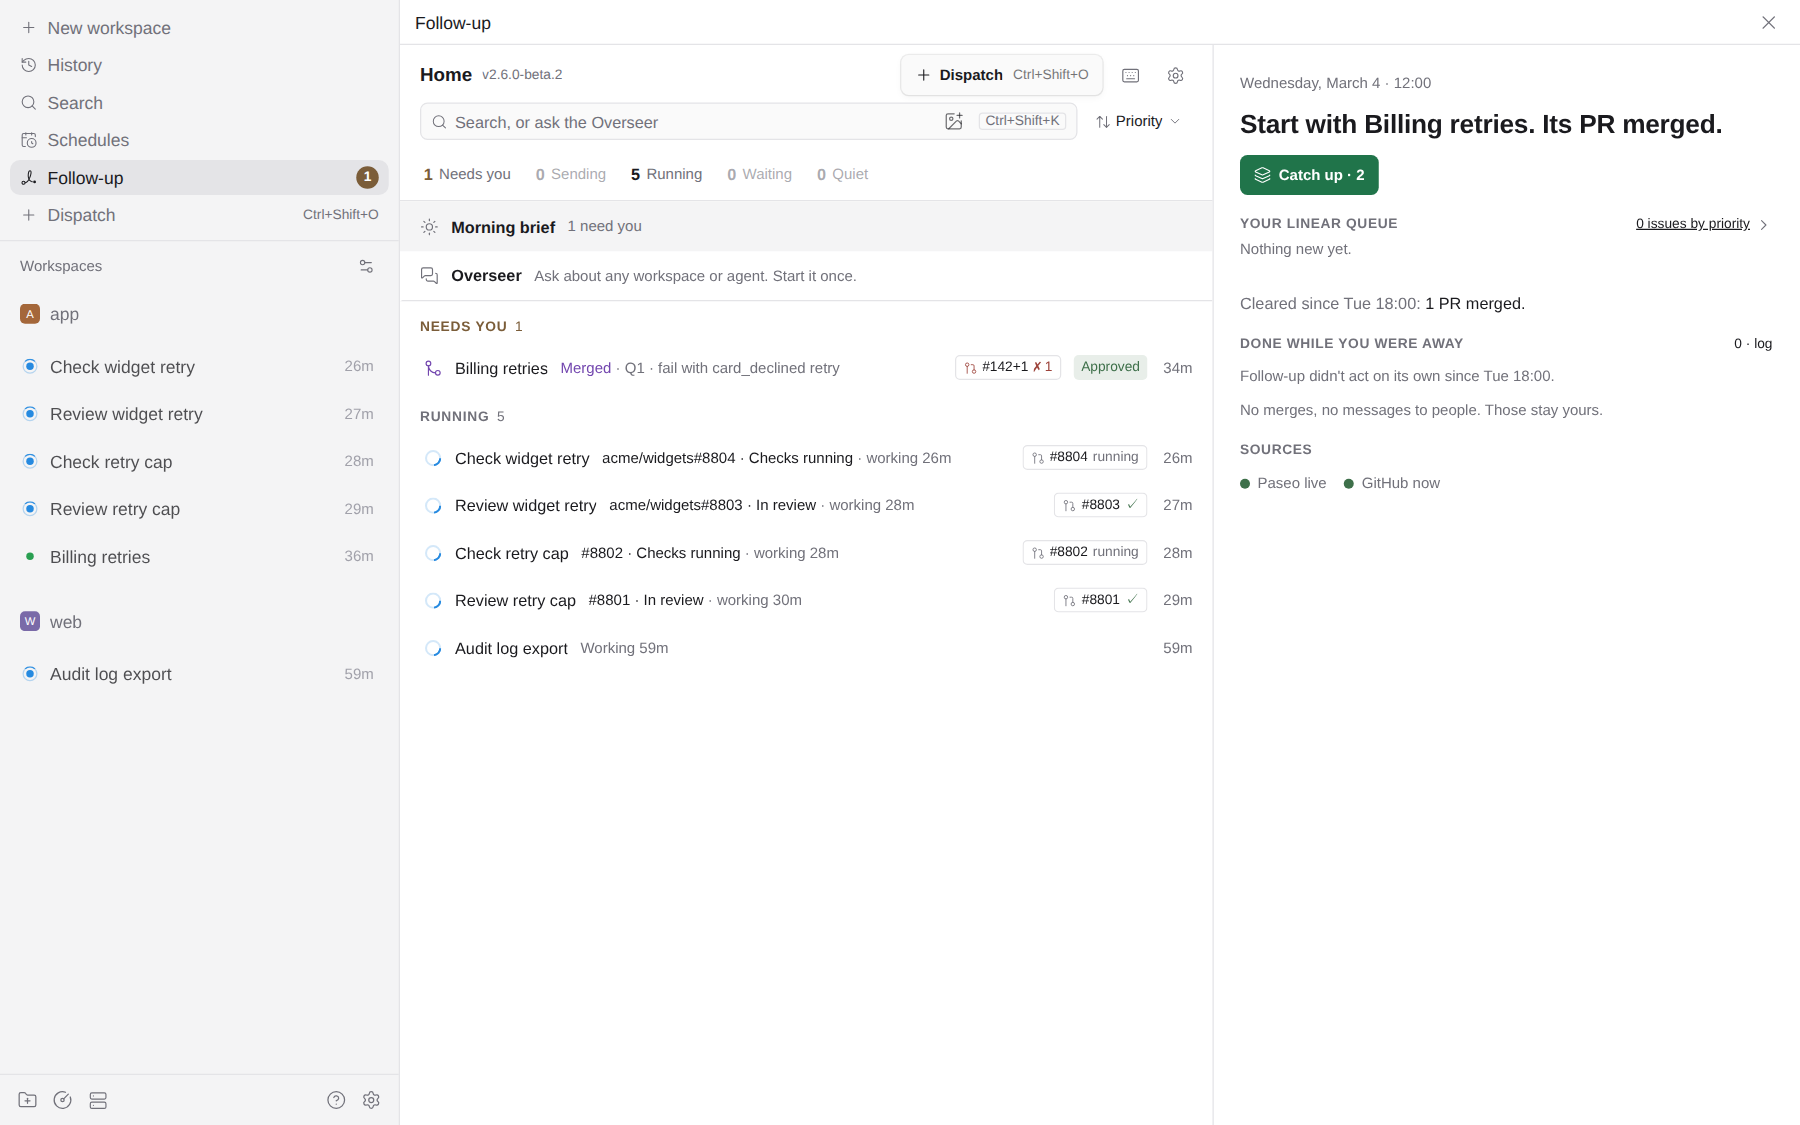
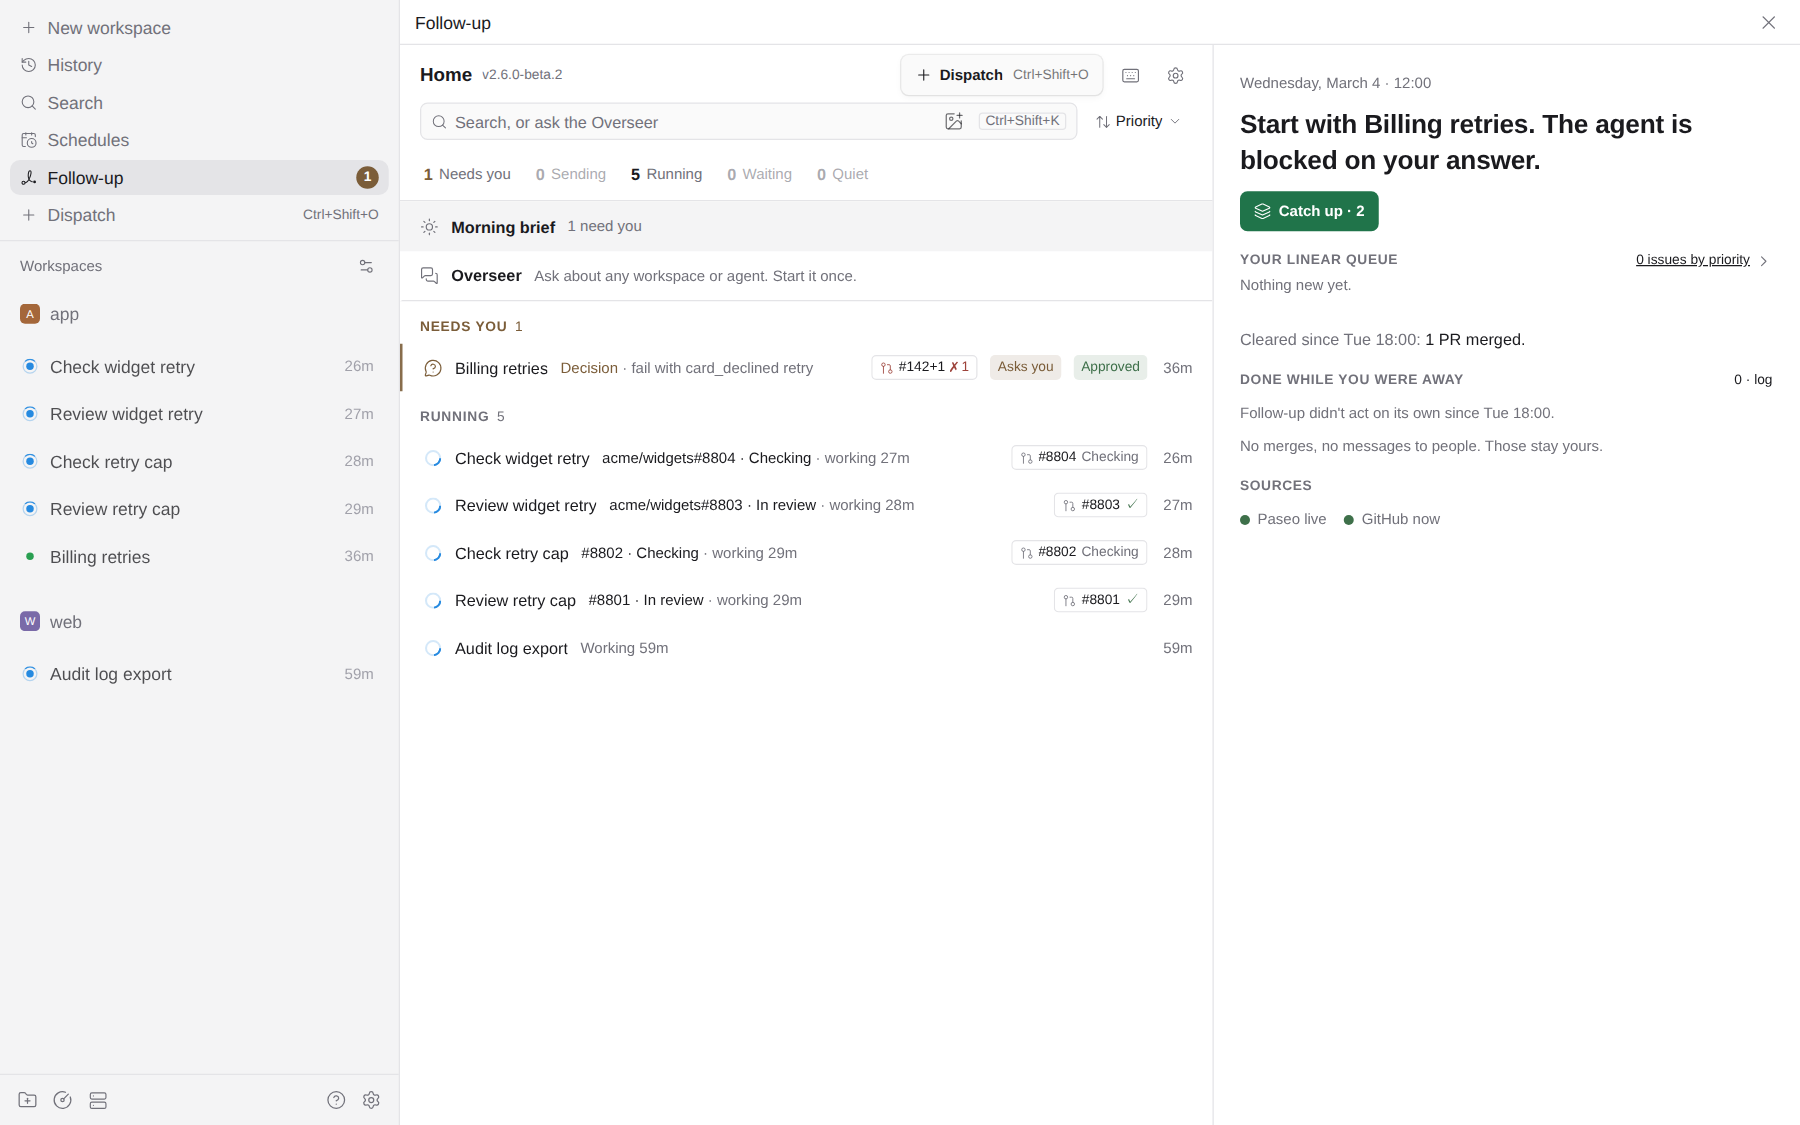
Refresh matching PR status and reference renders

diff --git a/docs/screenshots/gallery/INDEX.md b/docs/screenshots/gallery/INDEX.md
@@ -10,14 +10,14 @@ and [docs/testing.md](../../testing.md#screenshots)); this file is rewritten by 
 | [catch-up-phone-dark.png](catch-up-phone-dark.png) | Catch up: everything that needs you, one card at a time, on the question card. | phone dark, 780×1688 px | 56 KB | 0d54bd42 (2.4.0-beta.5) |
 | [decision-card-desktop-light.png](decision-card-desktop-light.png) | A decision card: the agent's question with lettered options, the recommendation and what the agent does meanwhile, in Home's detail pane. | desktop light, 2880×1800 px | 199 KB | 0d54bd42 (2.4.0-beta.5) |
 | [decision-card-phone-dark.png](decision-card-phone-dark.png) | A decision card: the agent's question with lettered options, the recommendation and what the agent does meanwhile, in Home's detail pane. | phone dark, 780×1688 px | 47 KB | 0d54bd42 (2.4.0-beta.5) |
-| [home-desktop-light.png](home-desktop-light.png) | Home: every workspace grouped by what it needs from you, with agent work and PR status lines; the morning brief on the right (desktop), and the list (phone). | desktop light, 1800×1125 px | 182 KB | this tree (on 4bdeeaf3, 2.6.0-beta.2) |
-| [home-phone-dark.png](home-phone-dark.png) | Home: every workspace grouped by what it needs from you, with agent work and PR status lines; the morning brief on the right (desktop), and the list (phone). | phone dark, 780×1688 px | 145 KB | this tree (on 4bdeeaf3, 2.6.0-beta.2) |
+| [home-desktop-light.png](home-desktop-light.png) | Home: every workspace grouped by what it needs from you, with agent work and PR status lines; the morning brief on the right (desktop), and the list (phone). | desktop light, 1800×1125 px | 188 KB | this tree (on 22f02d9f, 2.6.0-beta.2) |
+| [home-phone-dark.png](home-phone-dark.png) | Home: every workspace grouped by what it needs from you, with agent work and PR status lines; the morning brief on the right (desktop), and the list (phone). | phone dark, 780×1688 px | 145 KB | this tree (on 22f02d9f, 2.6.0-beta.2) |
 | [new-desktop-light.png](new-desktop-light.png) | New: start work from a Linear issue, a link or your own words. | desktop light, 2880×1800 px | 117 KB | 0d54bd42 (2.4.0-beta.5) |
 | [new-phone-dark.png](new-phone-dark.png) | New: start work from a Linear issue, a link or your own words. | phone dark, 780×1688 px | 33 KB | 0d54bd42 (2.4.0-beta.5) |
 | [overseer-desktop-light.png](overseer-desktop-light.png) | The Overseer, asked from Home's search box, answering about every workspace. | desktop light, 2880×1800 px | 148 KB | 0d54bd42 (2.4.0-beta.5) |
 | [overseer-phone-dark.png](overseer-phone-dark.png) | The Overseer, asked from Home's search box, answering about every workspace. | phone dark, 780×1688 px | 17 KB | 0d54bd42 (2.4.0-beta.5) |
-| [panel-desktop-light.png](panel-desktop-light.png) | The workspace panel beside the chat: status, Needs you, pull requests and activity (desktop); the larger view (phone). | desktop light, 1800×1250 px | 165 KB | this tree (on 4bdeeaf3, 2.6.0-beta.2) |
-| [panel-phone-dark.png](panel-phone-dark.png) | The workspace panel beside the chat: status, Needs you, pull requests and activity (desktop); the larger view (phone). | phone dark, 780×1688 px | 107 KB | this tree (on 4bdeeaf3, 2.6.0-beta.2) |
+| [panel-desktop-light.png](panel-desktop-light.png) | The workspace panel beside the chat: status, Needs you, pull requests and activity (desktop); the larger view (phone). | desktop light, 1800×1250 px | 166 KB | this tree (on 22f02d9f, 2.6.0-beta.2) |
+| [panel-phone-dark.png](panel-phone-dark.png) | The workspace panel beside the chat: status, Needs you, pull requests and activity (desktop); the larger view (phone). | phone dark, 780×1688 px | 109 KB | this tree (on 22f02d9f, 2.6.0-beta.2) |
 | [pill-desktop-light.png](pill-desktop-light.png) | The composer pill opened above the chat: the open question and the workspace's other asks. | desktop light, 2880×1800 px | 101 KB | 0d54bd42 (2.4.0-beta.5) |
 | [pill-phone-dark.png](pill-phone-dark.png) | The composer pill opened above the chat: the open question and the workspace's other asks. | phone dark, 780×1688 px | 42 KB | 0d54bd42 (2.4.0-beta.5) |
 | [pr-sheet-desktop-light.png](pr-sheet-desktop-light.png) | The PR sheet for a PR whose checks failed: checks, reviewers and merge controls. | desktop light, 2880×1800 px | 140 KB | 0d54bd42 (2.4.0-beta.5) |
